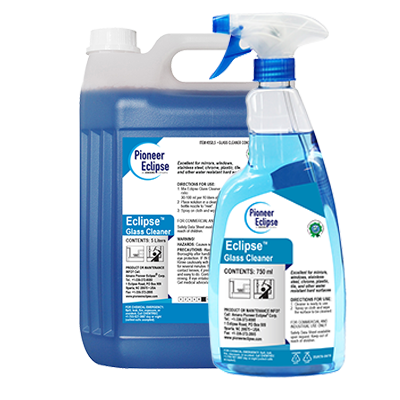
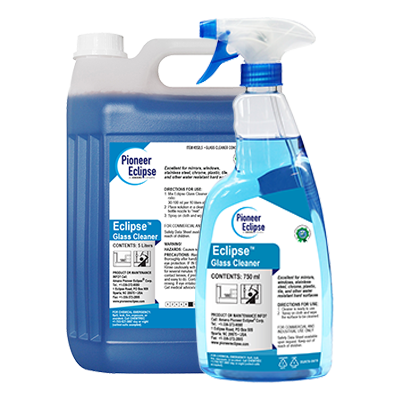
photo

diff --git a/green_cleaning.php b/green_cleaning.php
@@ -58,8 +58,8 @@
   <div class="col-sm-4">
         
          <!-- colored -->
-    <div class="ih-item square colored effect14 top_to_bottom" style="height:230px"><a href="betco_green.php">
-        <div class="img"><img src="img/Green_Cleaning/betco.jpg" alt="img" style="height:220px; "></div>
+    <div class="ih-item square colored effect14 top_to_bottom" ><a href="betco_green.php">
+        <div class="img"><img src="img/Green_Cleaning/betco.jpg" alt="img" ></div>
         <div class="info">
           <h3>Betco Green Cleaning</h3>
           <p></p>
@@ -69,8 +69,8 @@
       <div class="col-sm-4">
         
          <!-- colored -->
-    <div class="ih-item square colored effect14 top_to_bottom" style="height:230px"><a href="pioner_green.php">
-        <div class="img"><img src="img/Green_Cleaning/352_L5_RTU_Eclipse-Glass-Cleaner_400x400.png" alt="img" style="height:220px; "></div>
+    <div class="ih-item square colored effect14 top_to_bottom" ><a href="pioner_green.php">
+        <div class="img"><img src="img/Green_Cleaning/352_L5_RTU_Eclipse-Glass-Cleaner_400x400.png" alt="img" ></div>
         <div class="info">
           <h3>Pioner Eclipse</h3>
           <p></p>

diff --git a/inc/nav.php b/inc/nav.php
@@ -101,8 +101,10 @@ background-image: url("img/Fondo/gearblue.png");"
                         <div class="dropdown-divider"></div>
                         <a class="dropdown-item" href="rental_equipment.php">Cleaning Rental Equipment</a>
                         <div class="dropdown-divider"></div>
-                        <a class="dropdown-item" href="deliver.php">Equipment Deliver</a>
-                        <div class="dropdown-divider"></div>
+<!--
+                            <a class="dropdown-item" href="deliver.php">Equipment Deliver</a>
+                            <div class="dropdown-divider"></div>
+-->
                         <a class="dropdown-item" href="equipment_restoration.php">Equipment Restoration</a>       
                         <div class="dropdown-divider"></div>
                         <a class="dropdown-item" href="#">Training</a>
